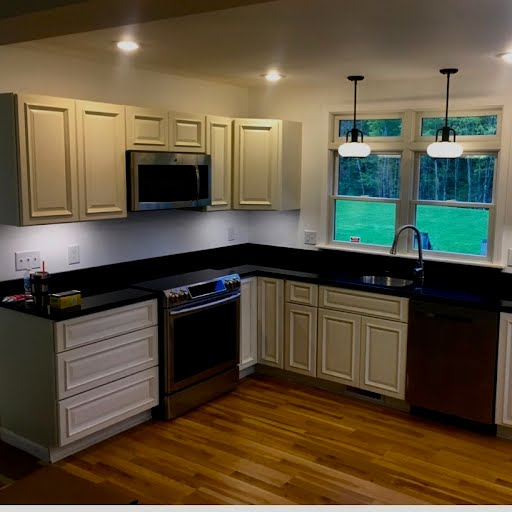
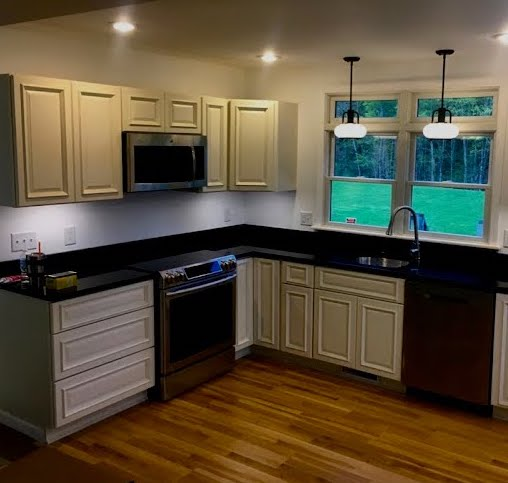
replaced background photo

Changed region(s): [[0.0, 0.0, 1.0, 1.0], [0.1772, 0.6522, 0.2362, 0.6832], [0.9744, 0.5901, 1.0, 0.6211]]

diff --git a/assets/css/main.css b/assets/css/main.css
@@ -3964,10 +3964,10 @@ input, select, textarea {
 /* Landing */
 
 	body.landing #page-wrapper {
-		background-image: -moz-linear-gradient(top, rgba(0,0,0,0.5), rgba(0,0,0,0.5)), url("../../images/nee-background.jpg");
-		background-image: -webkit-linear-gradient(top, rgba(0,0,0,0.5), rgba(0,0,0,0.5)), url("../../images/nee-background.jpg");
-		background-image: -ms-linear-gradient(top, rgba(0,0,0,0.5), rgba(0,0,0,0.5)), url("../../images/nee-background.jpg");
-		background-image: linear-gradient(top, rgba(0,0,0,0.5), rgba(0,0,0,0.5)), url("../../images/nee-background.jpg");
+		background-image: -moz-linear-gradient(top, rgba(0,0,0,0.5), rgba(0,0,0,0.5)), url("../../images/nee-background-null2.jpg");
+		background-image: -webkit-linear-gradient(top, rgba(0,0,0,0.5), rgba(0,0,0,0.5)), url("../../images/nee-background-null2.jpg");
+		background-image: -ms-linear-gradient(top, rgba(0,0,0,0.5), rgba(0,0,0,0.5)), url("../../images/nee-background-null2.jpg");
+		background-image: linear-gradient(top, rgba(0,0,0,0.5), rgba(0,0,0,0.5)), url("../../images/nee-background-null2.jpg");
 		background-attachment: fixed;
 		background-position: center center;
 		background-repeat: no-repeat;
@@ -3985,10 +3985,10 @@ input, select, textarea {
 
 	body.is-mobile.landing #banner,
 	body.is-mobile.landing .wrapper.style4 {
-		background-image: -moz-linear-gradient(top, rgba(0,0,0,0.5), rgba(0,0,0,0.5)), url("../../images/nee-background.jpg");
-		background-image: -webkit-linear-gradient(top, rgba(0,0,0,0.5), rgba(0,0,0,0.5)), url("../../images/nee-background.jpg");
-		background-image: -ms-linear-gradient(top, rgba(0,0,0,0.5), rgba(0,0,0,0.5)), url("../../images/nee-background.jpg");
-		background-image: linear-gradient(top, rgba(0,0,0,0.5), rgba(0,0,0,0.5)), url("../../images/nee-background.jpg");
+		background-image: -moz-linear-gradient(top, rgba(0,0,0,0.5), rgba(0,0,0,0.5)), url("../../images/nee-backgrounk-null2.jpg");
+		background-image: -webkit-linear-gradient(top, rgba(0,0,0,0.5), rgba(0,0,0,0.5)), url("../../images/nee-background-null2.jpg");
+		background-image: -ms-linear-gradient(top, rgba(0,0,0,0.5), rgba(0,0,0,0.5)), url("../../images/nee-background-null2.jpg");
+		background-image: linear-gradient(top, rgba(0,0,0,0.5), rgba(0,0,0,0.5)), url("../../images/nee-background-null2.jpg");
 		background-position: center center;
 		background-repeat: no-repeat;
 		background-size: cover;

diff --git a/index.html b/index.html
@@ -73,7 +73,7 @@
 						</div>
 					</section>
 					<section class="spotlight">
-						<div class="image"><img src="images/nee-pw1.jpg" alt="" /></div><div class="content">
+						<div class="image"><img src="images/nee-kitchen-lights.jpg" alt="" /></div><div class="content">
 							<h2>Past Work</h2>
 							<p>For the past 34 years, we've has been servicing Greene, Albany, and surrounding counties. Check out some of our previous <a href="past-work.html">work</a>.</p>
 						</div>
